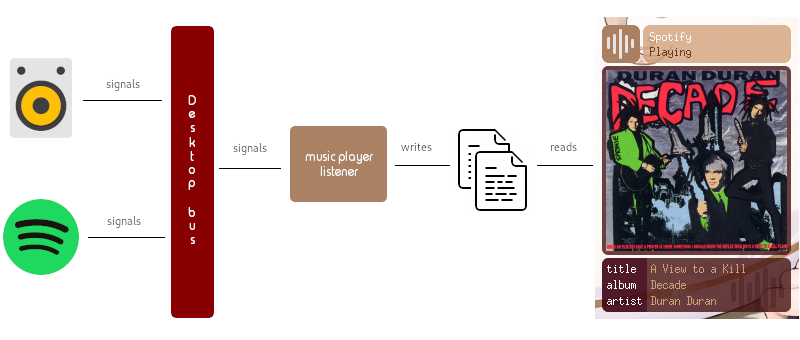
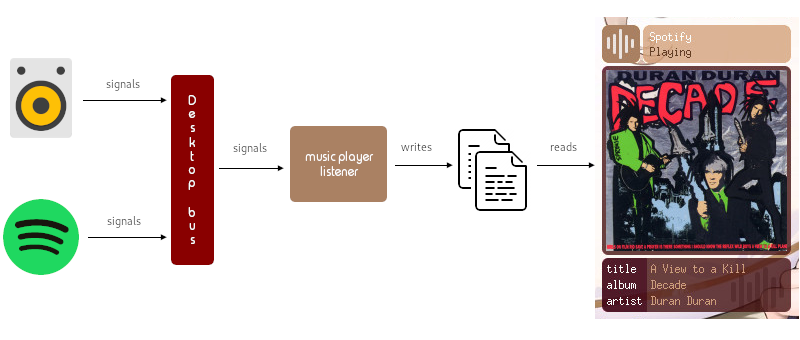
improve music player dbus listener documentation
- add project icon to top banner
- add file interface, album art pages
- polish architecture image

Changed region(s): [[0.1875, 0.7647, 0.2812, 0.9412], [0.1875, 0.0588, 0.2812, 0.2353]]

diff --git a/builder/java-tools/music-player/src/site/markdown/interface.md b/builder/java-tools/music-player/src/site/markdown/interface.md
@@ -1,0 +1,25 @@
+## File interface
+This applications uses **files** for inter process communication with the now playing conky.  
+As music player activity is detected over the dbus, the application will write the details into these files.  
+Conky can read the files to get the music player and track info state.  
+Files are only updated when the media player state changes.
+
+The files are written to the `/tmp/conky` directory.
+
+| No media player running              | Media player running                            |
+|--------------------------------------|-------------------------------------------------|
+| `musicplayer.album:unknown album`    | `musicplayer.album:Coming Home`                 |
+|                                      | `musicplayer.albumArtPath:/some/path/image.png` |
+| `musicplayer.artist:unknown artist`  | `musicplayer.artist:Alex Boychuk`               |
+| `musicplayer.genre:unknown genre`    | `musicplayer.genre:unknown genre`               |
+| `musicplayer.name:Nameless Player`   | `musicplayer.name:Spotify`                      |
+| `musicplayer.playbackStatus:Stopped` | `musicplayer.playbackStatus:Playing`            |
+| `musicplayer.title:unknown title`    | `musicplayer.title:Coming Home`                 |
+
+Things to note:
+
+- The `name` and `playbackStatus` files relay the media player state
+- The playback status values are: `Playing`, `Stopped`, `Paused`
+- The remaining files are the current song details
+- The `albumArtPath` file is optional, if no album art is available the file will not exist
+- The output directory can be changed in the [configuration file](configuration.html)

diff --git a/builder/java-tools/music-player/src/site/markdown/index.md b/builder/java-tools/music-player/src/site/markdown/index.md
@@ -1,3 +1,4 @@
+## Overview
 The `Music Player D-Bus listener` serves as a middle layer between conky and the media players running in the system.  
 It listens on the **d**esktop **bus** (dbus) for any media player activity and writes the metadata of the
 currently playing music track into files for conky to read.  This keeps the conky presentation layer relatively simple,
@@ -5,4 +6,13 @@ while offloading all the media player state processing to this application.
 
 ![architecture](images/architecture.png)
 
-If multiple media players are running, the one currently playing a song is selected for conky to display.
+The application is able to listen to any media player that implements the [MPRIS specification](https://www.freedesktop.org/wiki/Specifications/mpris-spec/).  All the popular players should support it.
+
+Developers looking to write a conky that interacts with this application should read the [file interface](interface.html)
+page.
+
+## Running the application
+From the terminal run the following command:
+```commandline
+$ java -jar ~/conky/monochrome/java/music-player-*.jar
+```

diff --git a/builder/java-tools/music-player/src/site/markdown/albumArt.md b/builder/java-tools/music-player/src/site/markdown/albumArt.md
@@ -1,0 +1,14 @@
+## Album art
+Album art can come in one of two forms:
+
+1. The image is available on the local disk
+1. The image is available on the web
+
+In case of (2) the application will download the image from the web and store it in the image cache.  
+The `musicplayer.albumArtPath` output file will have the full path to the file on disk  (see [file interface](interface.html)).
+
+### Image cache
+The location of the cache directory is driven by the `albumArtDir` property in the [configuration file](configuration.html).  
+The `albumCacheSize` property controls the maximum size the cache is allowed to reach.  By default, the max size is 1GB.  
+Once the maximum size is breached, album art image files will be deleted at random in order to keep to directory size 
+within the limit. 

diff --git a/builder/java-tools/music-player/src/site/markdown/configuration.md b/builder/java-tools/music-player/src/site/markdown/configuration.md
@@ -19,4 +19,7 @@ musicplayer.album  musicplayer.albumArtPath    musicplayer.artist  musicplayer.g
 musicplayer.name   musicplayer.playbackStatus  musicplayer.title
 ```
 You can change the output directory by modifying the `outputDir` property.  Do note that the now playing **conky configuration** 
-will have to be **updated** to reflect the directory change as well. 
+will have to be **updated** to reflect the directory change as well.
+
+### Image cache
+See [album art](albumArt.html) for more context.
